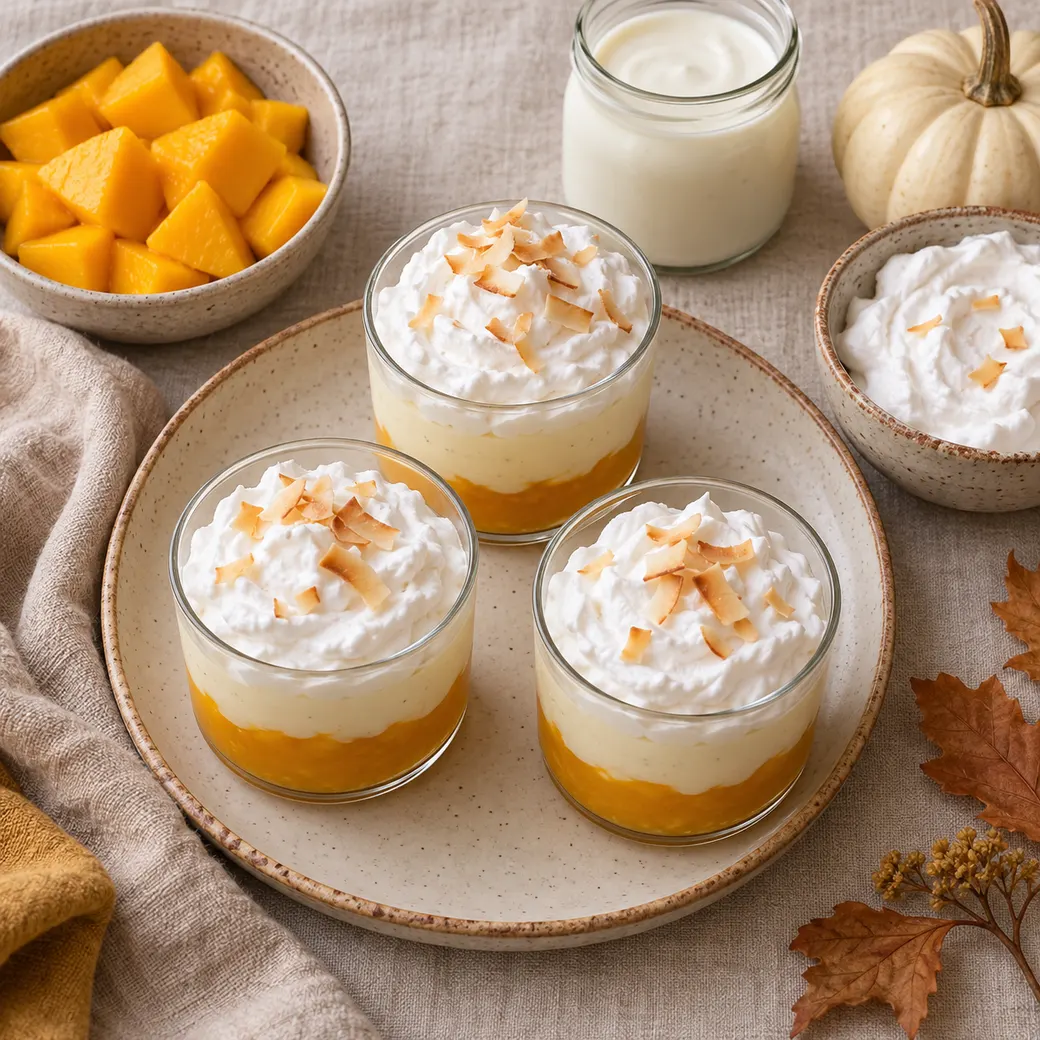
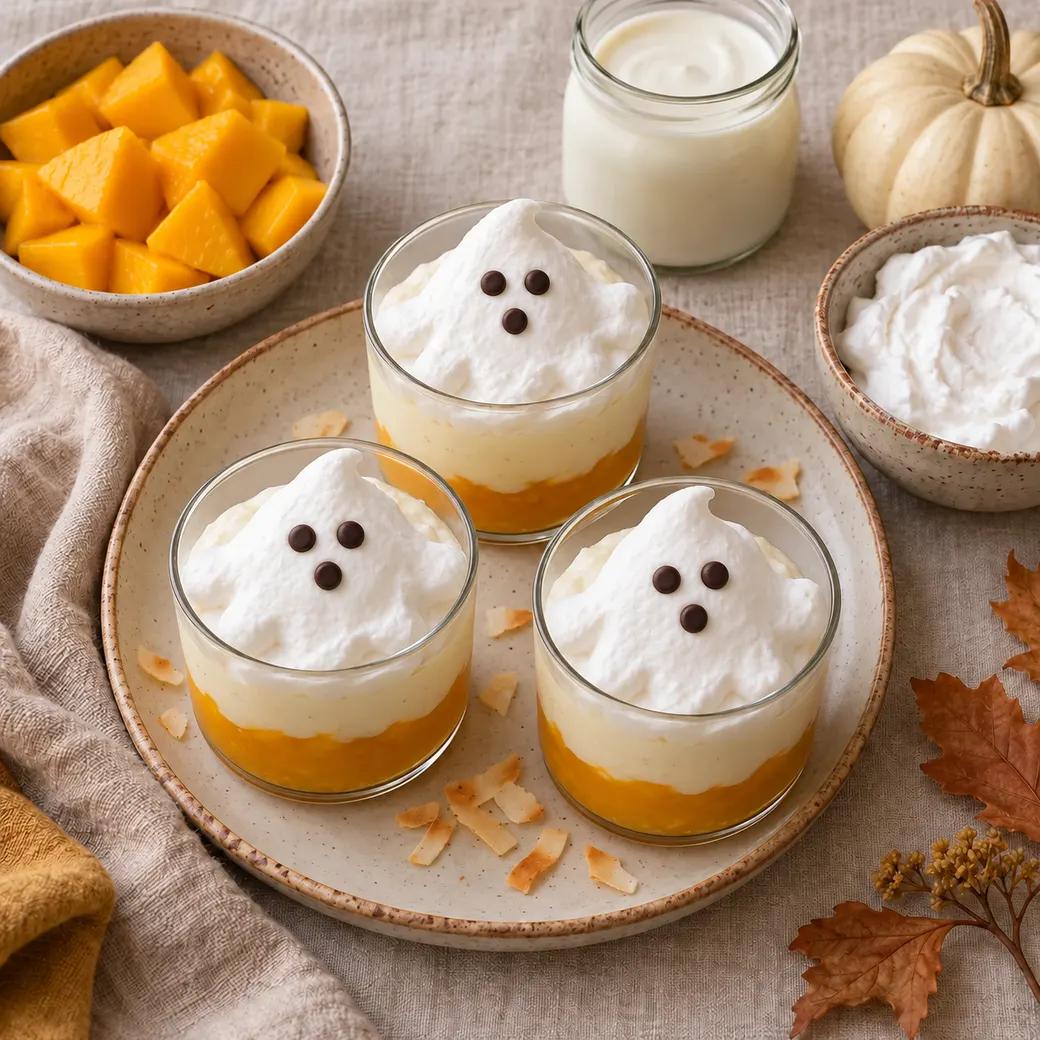
Halloween: four Halloween photos first, no number pills, Gummy Worms off the page, three new Halloween looks
- Collection grids no longer show a number pill on each recipe photo (every collection).
- The Halloween book page leads with Strawberry Yogurt Ghost Hearts, Jack-o'-Lantern Mango Stars,
  Blueberry Yogurt Bites and Chocolate Pumpkin Protein Tarts.
- Gummy Worms is off the Halloween page (19 recipes shown). Release 1 keeps it, because two paid
  orders protect every delivered recipe, so buyers still find it in their library.
- The make-ahead plan preview swaps Gummy Worms for Protein Fruit Gummies (Friday about 20 min,
  about 1 hour 45 minutes in all). The paid plan in the database is updated to match on deploy.
- Candy Corn Parfaits (ghost faces), Banana Pumpkin Mini Donuts (pretzel stems) and Mini Pumpkin
  Cheesecake Bites (yogurt spiderwebs) get a Halloween photo (ChatGPT Images edit of their own
  photo); the old photo becomes the everyday half of the before-and-after slider. Their Halloween
  step and new times are in the database.

diff --git a/my-curated-haven-web/src/config/recipe-snapshot.ts b/my-curated-haven-web/src/config/recipe-snapshot.ts
@@ -77,10 +77,10 @@ export const RECIPE_SNAPSHOT: Record<string, RecipeSnapshot> = {
   "veggie-rice-snack-fritters": { title: "Veggie Rice Snack Fritters", minutes: 40, image: "7ba9aed5-da73-42f6-9b1c-7da160fa65f5-v2.png", allergens: ["egg"], freezes: null, tags: { stage: ["1-2y", "2-3y", "3-5y"], meal: ["snack", "lunch"], goal: ["veg-packed", "picky-friendly"], practical: ["make-ahead", "on-the-go"], freeFrom: ["dairy-free", "nut-free", "gluten-free", "vegetarian"] } },
   // Halloween recipes from the owner, added 2026-10-12. Photos live in public/images/recipes/ (a site path,
   // not Supabase Storage). Minutes include required freezing or chilling.
-  "banana-pumpkin-mini-donuts": { title: "Banana Pumpkin Mini Donuts", minutes: 25, image: "/images/recipes/banana-pumpkin-mini-donuts-1040.webp", allergens: ["egg", "wheat"], freezes: "2 months", tags: { stage: ["1-2y", "2-3y"], meal: ["snack", "breakfast"], goal: [], practical: ["freezes", "make-ahead"], freeFrom: ["dairy-free", "nut-free", "vegetarian"] } },
+  "banana-pumpkin-mini-donuts": { title: "Banana Pumpkin Mini Donuts", minutes: 30, image: "/images/recipes/banana-pumpkin-mini-donuts-1040.webp", allergens: ["egg", "wheat"], freezes: "2 months", tags: { stage: ["1-2y", "2-3y"], meal: ["snack", "breakfast"], goal: [], practical: ["freezes", "make-ahead"], freeFrom: ["dairy-free", "nut-free", "vegetarian"] } },
   "sweet-potato-jack-o-lantern-cupcakes": { title: "Sweet Potato Jack-O'-Lantern Cupcakes", minutes: 40, image: "/images/recipes/sweet-potato-jack-o-lantern-cupcakes-1040.webp", allergens: ["egg", "milk", "wheat"], freezes: null, tags: { stage: ["1-2y", "2-3y"], meal: ["snack", "treat"], goal: [], practical: ["make-ahead"], freeFrom: ["nut-free", "vegetarian"] } },
   "berry-ghost-yogurt-bark": { title: "Berry Ghost Yogurt Bark", minutes: 195, image: "/images/recipes/berry-ghost-yogurt-bark-1040.webp", allergens: ["milk"], freezes: "1 month", tags: { stage: ["1-2y", "2-3y"], meal: ["snack", "treat"], goal: [], practical: ["freezes", "make-ahead", "no-cook"], freeFrom: ["egg-free", "nut-free", "gluten-free", "vegetarian"] } },
-  "mini-pumpkin-cheesecake-bites": { title: "Mini Pumpkin Cheesecake Bites", minutes: 125, image: "/images/recipes/mini-pumpkin-cheesecake-bites-1040.webp", allergens: ["egg", "milk", "wheat"], freezes: null, tags: { stage: ["1-2y", "2-3y"], meal: ["snack", "treat"], goal: [], practical: ["make-ahead"], freeFrom: ["nut-free", "vegetarian"] } },
+  "mini-pumpkin-cheesecake-bites": { title: "Mini Pumpkin Cheesecake Bites", minutes: 135, image: "/images/recipes/mini-pumpkin-cheesecake-bites-1040.webp", allergens: ["egg", "milk", "wheat"], freezes: null, tags: { stage: ["1-2y", "2-3y"], meal: ["snack", "treat"], goal: [], practical: ["make-ahead"], freeFrom: ["nut-free", "vegetarian"] } },
   "apple-pie-halloween-pockets": { title: "Apple Pie Halloween Pockets", minutes: 40, image: "/images/recipes/apple-pie-halloween-pockets-1040.webp", allergens: ["egg", "wheat"], freezes: null, tags: { stage: ["1-2y", "2-3y"], meal: ["snack", "treat"], goal: [], practical: ["make-ahead"], freeFrom: ["dairy-free", "nut-free", "vegetarian"] } },
   "jack-o-lantern-peanut-butter-tart": { title: "Jack-O'-Lantern Peanut Butter Tart", minutes: 50, image: "/images/recipes/jack-o-lantern-peanut-butter-tart-1040.webp", allergens: ["peanuts", "milk", "soy"], freezes: null, tags: { stage: ["1-2y", "2-3y"], meal: ["snack", "treat"], goal: [], practical: ["make-ahead", "no-cook"], freeFrom: ["egg-free", "gluten-free", "vegetarian"] } },
   "apple-peanut-butter-smiles": { title: "Apple Peanut Butter Smiles", minutes: 10, image: "/images/recipes/apple-peanut-butter-smiles-1040.webp", allergens: ["peanuts"], freezes: null, tags: { stage: ["1-2y", "2-3y"], meal: ["snack"], goal: [], practical: ["under-15-min", "no-cook"], freeFrom: ["egg-free", "dairy-free", "gluten-free", "vegetarian"] } },
@@ -89,7 +89,7 @@ export const RECIPE_SNAPSHOT: Record<string, RecipeSnapshot> = {
   "mandarin-orange-pumpkins": { title: "Mandarin Orange Pumpkins", minutes: 5, image: "/images/recipes/mandarin-orange-pumpkins-1040.webp", allergens: [], freezes: null, tags: { stage: ["1-2y", "2-3y"], meal: ["snack"], goal: [], practical: ["under-15-min", "no-cook"], freeFrom: ["egg-free", "dairy-free", "nut-free", "gluten-free", "vegetarian", "vegan"] } },
   "monster-energy-balls": { title: "Monster Energy Balls", minutes: 55, image: "/images/recipes/monster-energy-balls-1040.webp", allergens: ["peanuts"], freezes: "2 months", tags: { stage: ["1-2y", "2-3y"], meal: ["snack"], goal: [], practical: ["freezes", "make-ahead", "no-cook"], freeFrom: ["egg-free", "dairy-free", "vegetarian"] } },
   "mummy-banana-pops": { title: "Mummy Banana Pops", minutes: 165, image: "/images/recipes/mummy-banana-pops-1040.webp", allergens: ["milk"], freezes: "1 month", tags: { stage: ["1-2y", "2-3y"], meal: ["snack", "treat"], goal: [], practical: ["freezes", "make-ahead", "no-cook"], freeFrom: ["egg-free", "nut-free", "gluten-free", "vegetarian"] } },
-  "candy-corn-parfaits": { title: "Candy Corn Parfaits", minutes: 10, image: "/images/recipes/candy-corn-parfaits-1040.webp", allergens: ["milk"], freezes: null, tags: { stage: ["1-2y", "2-3y"], meal: ["snack", "treat"], goal: [], practical: ["under-15-min", "no-cook"], freeFrom: ["egg-free", "nut-free", "gluten-free", "vegetarian"] } },
+  "candy-corn-parfaits": { title: "Candy Corn Parfaits", minutes: 12, image: "/images/recipes/candy-corn-parfaits-1040.webp", allergens: ["milk"], freezes: null, tags: { stage: ["1-2y", "2-3y"], meal: ["snack", "treat"], goal: [], practical: ["under-15-min", "no-cook"], freeFrom: ["egg-free", "nut-free", "gluten-free", "vegetarian"] } },
   "gummy-worms": { title: "Gummy Worms", minutes: 130, image: "/images/recipes/gummy-worms-1040.webp", allergens: [], freezes: null, tags: { stage: ["1-2y", "2-3y"], meal: ["snack"], goal: [], practical: ["make-ahead"], freeFrom: ["egg-free", "dairy-free", "nut-free", "gluten-free"] } },
   "protein-fruit-gummies": { title: "Protein Fruit Gummies", minutes: 135, image: "/images/recipes/protein-fruit-gummies-1040.webp", allergens: [], freezes: null, tags: { stage: ["1-2y", "2-3y"], meal: ["snack"], goal: [], practical: ["make-ahead"], freeFrom: ["egg-free", "dairy-free", "nut-free", "gluten-free"] } },
   "spider-peanut-butter-oat-bites": { title: "Spider Peanut Butter Oat Bites", minutes: 50, image: "/images/recipes/spider-peanut-butter-oat-bites-1040.webp", allergens: ["peanuts", "milk"], freezes: "2 months", tags: { stage: ["1-2y", "2-3y"], meal: ["snack", "treat"], goal: [], practical: ["freezes", "make-ahead", "no-cook"], freeFrom: ["egg-free", "vegetarian"] } },

diff --git a/my-curated-haven-web/src/config/everyday-photos.ts b/my-curated-haven-web/src/config/everyday-photos.ts
@@ -4,9 +4,10 @@
  * step taken out, so the two halves line up. A recipe listed here shows the slider in place
  * of its single photo; every other recipe keeps the photo.
  *
- * Only recipes with a real Halloween step are here. The banana pumpkin mini donuts, mini
- * pumpkin cheesecake bites, candy corn parfaits, gummy worms and protein fruit gummies look
- * the same every day, so they have no everyday photo. Sources: docs/implementation/instagram-landing/HALLOWEEN.md.
+ * Only recipes with a real Halloween step are here. Gummy worms and protein fruit gummies look
+ * the same every day, so they have no everyday photo. The donuts, cheesecake bites and parfaits
+ * got their Halloween step on 2026-10-14; their old photo is now the everyday one.
+ * Sources: docs/implementation/instagram-landing/HALLOWEEN.md.
  */
 
 const DIR = "/images/recipes/everyday";
@@ -24,11 +25,14 @@ export const EVERYDAY_PHOTOS: Readonly<Record<string, EverydayPhoto>> = {
   "spider-cracker-bites": photo("spider-cracker-bites", "The same cream cheese cracker sandwiches without legs or eyes"),
   "apple-peanut-butter-smiles": photo("apple-peanut-butter-smiles", "The same apple and peanut butter sandwiches, closed, without the strawberry tongues or apple teeth"),
   "apple-pie-halloween-pockets": photo("apple-pie-halloween-pockets", "The same apple hand pies cut as plain rounds instead of pumpkins"),
+  "banana-pumpkin-mini-donuts": photo("banana-pumpkin-mini-donuts", "The same banana pumpkin donuts without the pretzel stems or seed leaves"),
   "blueberry-yogurt-bites": photo("blueberry-yogurt-bites", "The same blueberry yogurt bites without the white chocolate spiderwebs"),
+  "candy-corn-parfaits": photo("candy-corn-parfaits", "The same parfaits with a plain whipped topping and coconut, without the ghost faces"),
   "chocolate-pumpkin-protein-tarts": photo("chocolate-pumpkin-protein-tarts", "The same chocolate pumpkin tarts without the jack-o'-lantern faces"),
   "jack-o-lantern-mango-stars": photo("jack-o-lantern-mango-stars", "The same mango stars without the chocolate faces or kiwi stems"),
   "jack-o-lantern-peanut-butter-tart": photo("jack-o-lantern-peanut-butter-tart", "The same peanut butter cups without the faces"),
   "mandarin-orange-pumpkins": photo("mandarin-orange-pumpkins", "The same peeled mandarins without the celery stems"),
+  "mini-pumpkin-cheesecake-bites": photo("mini-pumpkin-cheesecake-bites", "The same cheesecake bites with a plain cream cheese swirl, without the spiderwebs"),
   "monster-energy-balls": photo("monster-energy-balls", "The same green energy balls without the eyes"),
   "spider-peanut-butter-oat-bites": photo("spider-peanut-butter-oat-bites", "The same peanut butter oat bites without the chocolate legs or eyes"),
   "strawberry-yogurt-ghost-hearts": photo("strawberry-yogurt-ghost-hearts", "The same strawberry yogurt hearts without the white chocolate ghosts"),

diff --git a/my-curated-haven-web/src/config/collections.ts b/my-curated-haven-web/src/config/collections.ts
@@ -466,7 +466,7 @@ export const SHOWROOM_COLLECTIONS: readonly ShowroomCollection[] = [
     cover: cover("fruit-gummies", 1412, "A berry-red cloth cookbook with a gold-foil gummy mould, heart and star gummies and a strawberry on its cover"),
     refresh: "",
     placeholderPrice: "$6.99",
-    // Placed 2026-10-14: both are also in the Halloween book.
+    // Placed 2026-10-14: both are in the Halloween book's release (Gummy Worms no longer shows on its page).
     recipes: recipes(["gummy-worms", "protein-fruit-gummies"]),
   },
   {
@@ -514,7 +514,13 @@ export const SHOWROOM_COLLECTIONS: readonly ShowroomCollection[] = [
     // Shown only if the live offer can't be read. Owner moved the price from $6.99 to $5.99 on 2026-10-13.
     placeholderPrice: "$5.99",
     // Replaced on 2026-10-12 with the owner's 20 Halloween recipes (above the 8–12 guideline in COLLECTIONS.md, by choice).
+    // 2026-10-14, owner: the four most Halloween-looking photos lead, and Gummy Worms is off this page. Release 1
+    // still holds it (two paid orders), so buyers keep it in their library.
     recipes: recipes([
+      "strawberry-yogurt-ghost-hearts",
+      "jack-o-lantern-mango-stars",
+      "blueberry-yogurt-bites",
+      "chocolate-pumpkin-protein-tarts",
       "berry-ghost-yogurt-bark",
       "mummy-banana-pops",
       "spider-cracker-bites",
@@ -528,13 +534,8 @@ export const SHOWROOM_COLLECTIONS: readonly ShowroomCollection[] = [
       "apple-peanut-butter-smiles",
       "monster-energy-balls",
       "candy-corn-parfaits",
-      "gummy-worms",
       "protein-fruit-gummies",
       "spider-peanut-butter-oat-bites",
-      "strawberry-yogurt-ghost-hearts",
-      "jack-o-lantern-mango-stars",
-      "blueberry-yogurt-bites",
-      "chocolate-pumpkin-protein-tarts",
     ]),
   },
   {

diff --git a/my-curated-haven-web/src/config/halloween.ts b/my-curated-haven-web/src/config/halloween.ts
@@ -223,12 +223,12 @@ export const HALLOWEEN_MAKE_AHEAD_PLAN: MakeAheadPlanEntry = {
   preview: {
     byline: "Inside the Halloween book",
     title: "Your Halloween make-ahead plan",
-    lede: "A party menu of 6 recipes, made across three short sessions so Saturday is calm. About 1 hour 40 minutes of cooking in all, and one shopping list.",
+    lede: "A party menu of 6 recipes, made across three short sessions so Saturday is calm. About 1 hour 45 minutes of cooking in all, and one shopping list.",
     menuHeading: "The party menu",
     menu: [
       { slug: "berry-ghost-yogurt-bark", name: "Berry Ghost Yogurt Bark" },
       { slug: "mummy-banana-pops", name: "Mummy Banana Pops" },
-      { slug: "gummy-worms", name: "Gummy Worms" },
+      { slug: "protein-fruit-gummies", name: "Protein Fruit Gummies" },
       { slug: "witchs-broomsticks", name: "Witch’s Broomsticks" },
       { slug: "spider-cracker-bites", name: "Spider Cracker Bites" },
       { slug: "mandarin-orange-pumpkins", name: "Mandarin Orange Pumpkins" },
@@ -236,7 +236,7 @@ export const HALLOWEEN_MAKE_AHEAD_PLAN: MakeAheadPlanEntry = {
     daysHeading: "Three short sessions",
     days: [
       { dow: "Thu", dom: "29", mon: "Oct", heading: "Freezer night", time: "About 45 min", pill: "freezer" },
-      { dow: "Fri", dom: "30", mon: "Oct", heading: "Fridge day", time: "About 15 min", pill: "fridge" },
+      { dow: "Fri", dom: "30", mon: "Oct", heading: "Fridge day", time: "About 20 min", pill: "fridge" },
       { dow: "Sat", dom: "31", mon: "Oct", heading: "Halloween", time: "About 40 min", pill: "fresh" },
     ],
   },

diff --git a/my-curated-haven-web/src/components/collections/CollectionDetail.tsx b/my-curated-haven-web/src/components/collections/CollectionDetail.tsx
@@ -180,9 +180,6 @@ export function Contents({ model }: { model: DetailModel }) {
                   {recipe.image ? (
                     <Image src={recipe.image} alt="" fill sizes="(min-width: 1024px) 17rem, (min-width: 640px) 30vw, 45vw" />
                   ) : null}
-                  <span className="cl-row-num" aria-hidden="true">
-                    {String(index + 1).padStart(2, "0")}
-                  </span>
                   {access === "free" ? (
                     <span className="cl-row-free" aria-hidden="true">
                       Free

diff --git a/my-curated-haven-web/src/styles/collections.css b/my-curated-haven-web/src/styles/collections.css
@@ -1751,20 +1751,6 @@
   transition: transform 0.7s var(--cl-ease);
 }
 
-.cl-row-num {
-  position: absolute;
-  top: 0.5rem;
-  left: 0.5rem;
-  padding: 0.1rem 0.45rem;
-  border-radius: 999px;
-  background: color-mix(in srgb, var(--cl-paper) 88%, transparent);
-  font-family: var(--font-body);
-  font-size: 0.7rem;
-  font-weight: 600;
-  font-variant-numeric: tabular-nums;
-  color: var(--cloth, var(--cl-ember));
-}
-
 .cl-row-free,
 .cl-row-mark {
   position: absolute;

diff --git a/docs/implementation/instagram-landing/HALLOWEEN.md b/docs/implementation/instagram-landing/HALLOWEEN.md
@@ -56,7 +56,7 @@ The street (`HALLOWEEN_STREET` in `src/config/halloween.ts`) is five image layer
 | Ghost pops, mummy scrolls, skeleton next door, making ghosts, goodnight window | Made by the owner in ChatGPT from the prompts in `~/Downloads/halloween-2026/PROMPTS.md`, cropped to 5:4 (window 4:4.4) and compressed to WebP |
 | Ghost pops before (`ghost-pops-before.webp`) | Higgsfield edit of the owner's ghost pops photo with only the eyes removed (2026-10-12), so the slider lines up |
 | Everyday scrolls (`everyday-pizza-scrolls.webp`) | The recipe's own catalog photo, a different shot, so the slider halves do not line up yet; the owner is making a matching before photo |
-| Everyday photos (`public/images/recipes/everyday/<slug>-1040.webp`, listed in `src/config/everyday-photos.ts`) | ChatGPT Images edits of each recipe's own photo with only the Halloween step removed (eyes, faces, webs, legs, stems, the pumpkin shape, the broom fringe), 2026-10-13, so the slider lines up. 15 of the 20 recipes; the banana pumpkin mini donuts, mini pumpkin cheesecake bites, candy corn parfaits, gummy worms and protein fruit gummies have no Halloween step to remove. They feed the three sliders here and the slider at the top of each recipe's own page (`/recipes/<slug>`), which prints as the Halloween photo alone. Originals in `docs/art/generated/` |
+| Everyday photos (`public/images/recipes/everyday/<slug>-1040.webp`, listed in `src/config/everyday-photos.ts`) | ChatGPT Images edits of each recipe's own photo with only the Halloween step removed (eyes, faces, webs, legs, stems, the pumpkin shape, the broom fringe), 2026-10-13, so the slider lines up. 15 of the 20 recipes at first; on 2026-10-14 the banana pumpkin mini donuts (pretzel stems), mini pumpkin cheesecake bites (spiderwebs) and candy corn parfaits (ghost faces) got a Halloween step and a new ChatGPT Images photo, and their old photo became the everyday one, so 18. Gummy worms and protein fruit gummies have no Halloween step. They feed the three sliders here and the slider at the top of each recipe's own page (`/recipes/<slug>`), which prints as the Halloween photo alone. Originals in `docs/art/generated/` |
 
 ## Analytics
 
